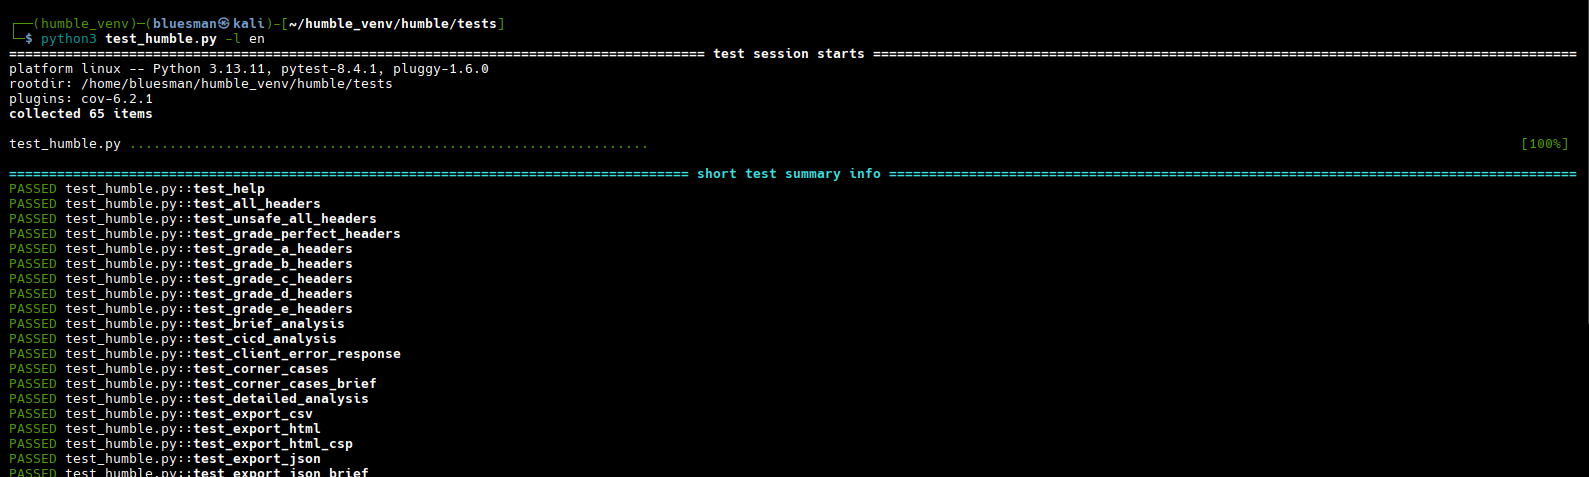
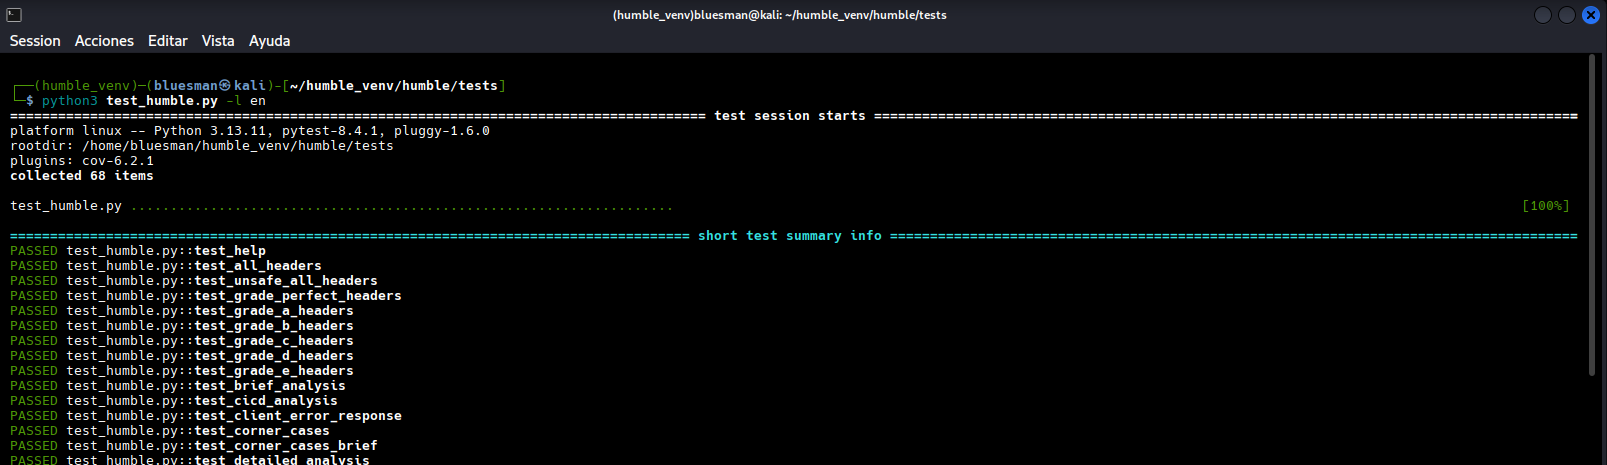
Feature: 3 new unit tests

Changed region(s): [[0.0, 0.0, 1.0, 1.0]]

diff --git a/tests/test_humble.py b/tests/test_humble.py
@@ -60,7 +60,9 @@ HUMBLE_TEST_FILES = {
     'GRADE_C': 'headers_test_grade_c.txt',
     'GRADE_D': 'headers_test_grade_d.txt',
     'CLIENT_ERROR': 'client_error_test.txt',
-    'NO_SEC_HEADERS': 'headers_none_security.txt',
+    'NO_HEADERS': 'headers_test_none.txt',
+    'NO_SEC_HEADERS': 'headers_test_nonesecurity.txt',
+    'NONEXISTENT': 'headers_test_nonexistent.txt',
     'UNICODE': 'headers_test_unicode.txt',
 }
 PATHS = {k: path.abspath(path.join(HUMBLE_TESTS_DIR, v)) for k, v in
@@ -131,6 +133,9 @@ TEST_CFGS = {
                          'HTML saved'),
     'test_export_html_csp': (['-u', TEST_URLS[2], '-o', 'html', '-r'],
                              'HTML saved'),
+    'test_export_html_empty_headers': (['-u', TEST_URLS[9], '-if',
+                                       PATHS['GRADE_D'], '-o', 'html'],
+                                       'HTML saved'),
     'test_export_json': (['-u', TEST_URLS[9], '-o', 'json', '-r'],
                          'JSON saved'),
     'test_export_json_brief': (['-u', TEST_URLS[9], '-o', 'json', '-b'],
@@ -151,6 +156,8 @@ TEST_CFGS = {
     'test_http_exception': (['-u', TEST_URLS[13]], 'scheme'),
     'test_input_file': (['-u', TEST_URLS[2], '-if', HUMBLE_INPUT_FILE],
                         'Input:'),
+    'test_input_file_nonexistent': (['-u', TEST_URLS[2], '-if',
+                                     PATHS['NONEXISTENT']], 'found'),
     'test_input_traversal': (['-u', TEST_URLS[9], '-op',
                               HUMBLE_INPUT_TRAVERSAL], 'wrong:'),
     'test_invalid_file_path': (['-u', TEST_URLS[9], '-o', 'csv', '-of',
@@ -161,6 +168,8 @@ TEST_CFGS = {
                            'Advertencias a revisar'),
     'test_l10n_grades': (['-grd', '-l', 'es'], 'No te obsesiones'),
     'test_license': (['-lic'], 'copyright'),
+    'test_no_headers': (['-u', TEST_URLS[4], '-if', PATHS['NO_HEADERS']],
+                        'contain'),
     'test_no_security_headers': (['-u', TEST_URLS[4], '-if',
                                   PATHS['NO_SEC_HEADERS']], 'are present'),
     'test_owasp_compliance': (['-u', TEST_URLS[9], '-c'],
